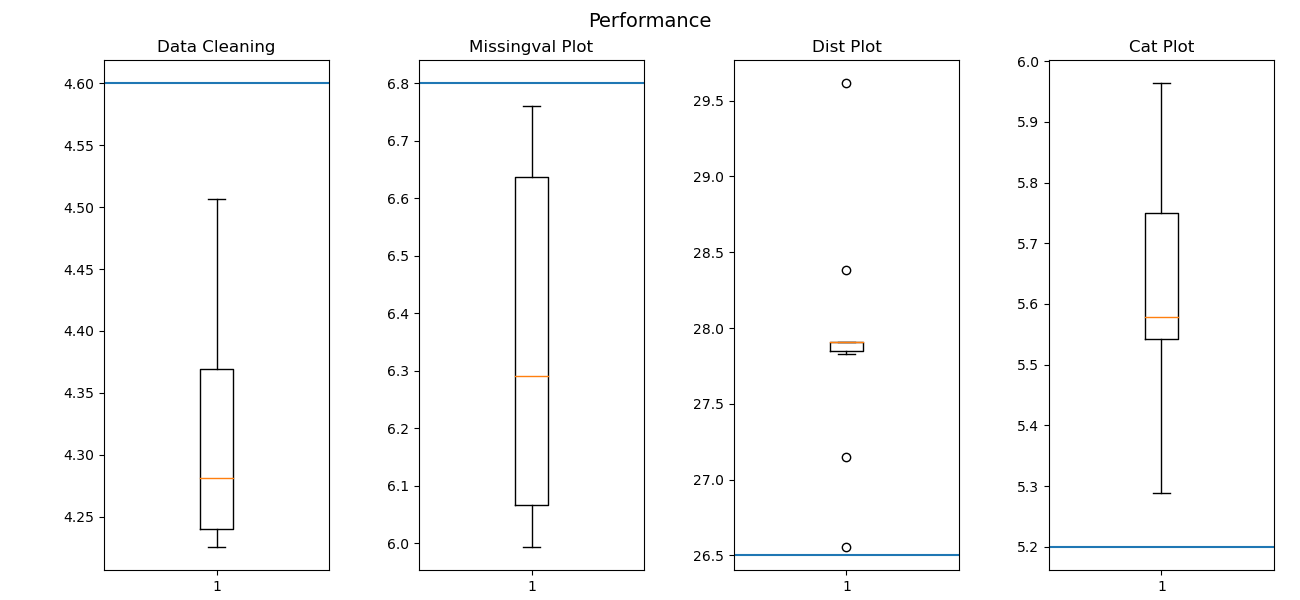
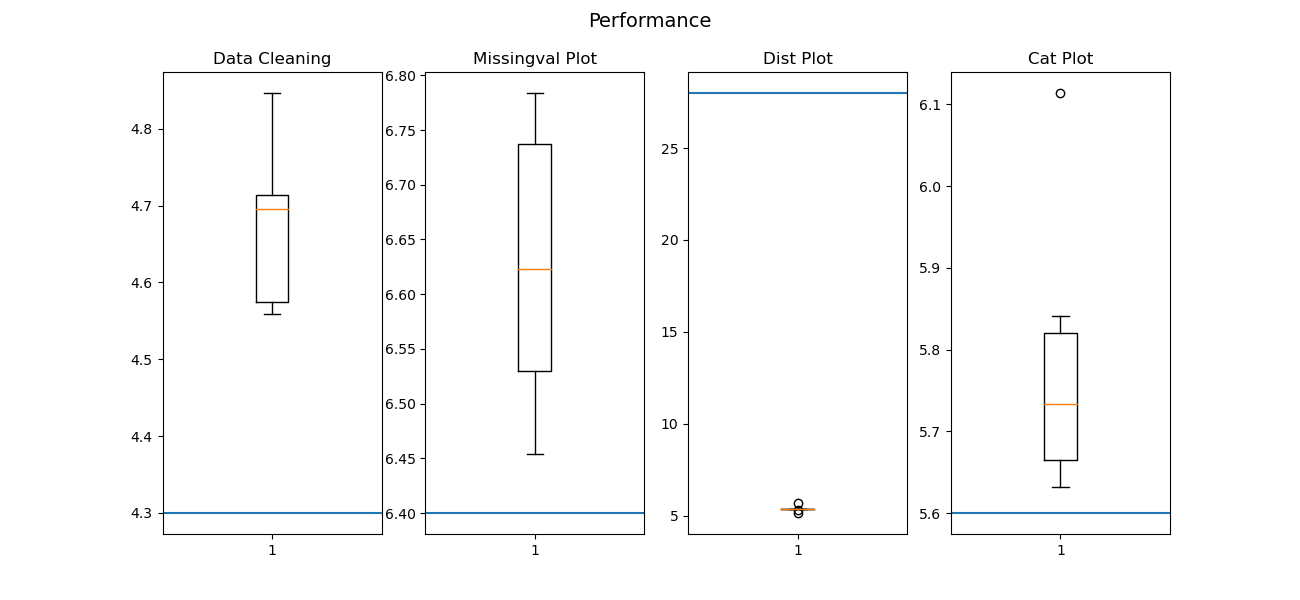
-

diff --git a/klib/scripts/performance.py b/klib/scripts/performance.py
@@ -46,7 +46,7 @@ def time_missingval_plot():
 
 @timer
 def time_dist_plot():
-    klib.dist_plot(data)
+    klib.dist_plot(data.iloc[:, :5])
 
 
 @timer
@@ -59,10 +59,11 @@ def main():
     df_times["data_cleaning"] = pd.Series([time_data_cleaning() for _ in range(8)])
     df_times["missingval_plot"] = pd.Series([time_missingval_plot() for _ in range(8)])
     df_times["dist_plot"] = pd.Series([time_dist_plot() for _ in range(3)])
+    print("----cat_plot----")
     df_times["cat_plot"] = pd.Series([time_cat_plot() for _ in range(8)])
     df_times = df_times.fillna(df_times.mean())
     fig, ax = plt.subplots(nrows=1, ncols=4, figsize=(13, 6))
-    reference_values = [4.3, 6.4, 28, 5.6]
+    reference_values = [4.3, 6.4, 6, 5.6]
 
     for i, (col, ref) in enumerate(zip(df_times.columns, reference_values)):
         ax[i].boxplot(df_times[col])
